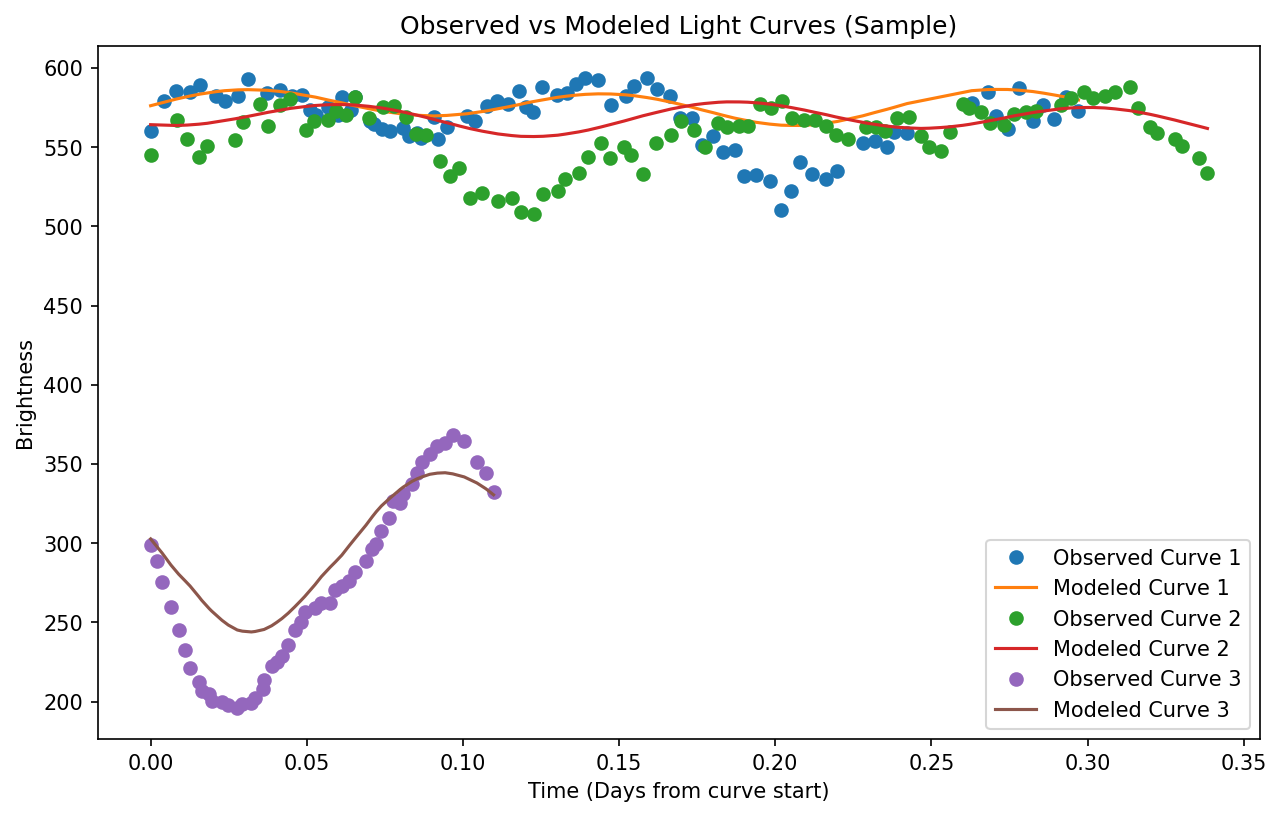
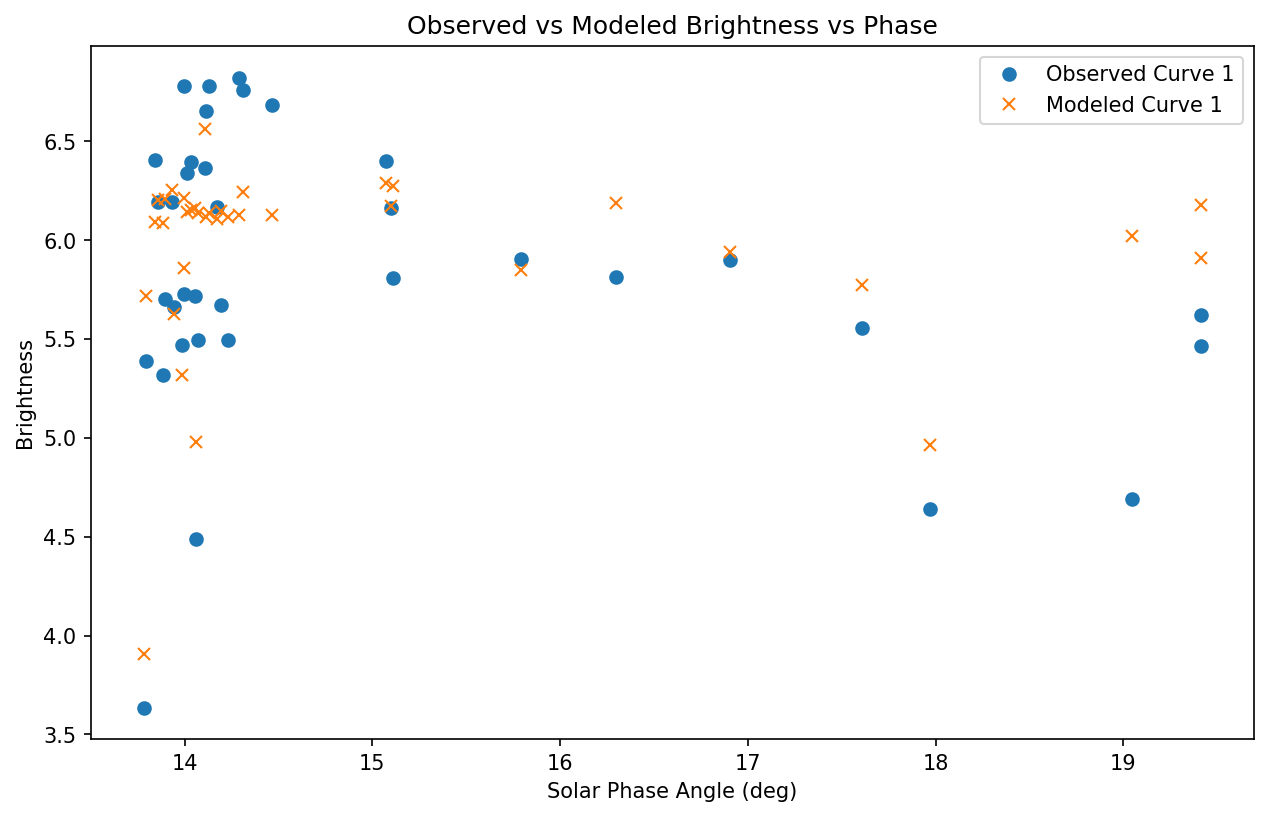
Modified README.md

diff --git a/README.md b/README.md
@@ -5,7 +5,7 @@ The `asteroid_modeling.py` module provides a Python orchestration layer to autom
 1.  **convexinv (C)**: Computes the Gaussian image of the asteroid (face areas and normals) from observed light curves.
 2.  **minkowski (Fortran)**: Reconstructs the 3D vertices and polygonal faces from the areas and normals using Minkowski's theorem.
 
-The module also provides a built-in visualization function using `matplotlib` to render the resulting 3D shape.
+The package also provides plotting helpers, interactive Plotly output, sky projection products, synthetic lightcurves, and a local Streamlit GUI for running the workflow from a browser.
 
 ## Prerequisites
 To use this module, you must have the following installed:
@@ -13,13 +13,15 @@ To use this module, you must have the following installed:
 -   `pandas` (for DataFrame lightcurve support)
 -   `matplotlib`
 -   `plotly` (for interactive 3D rendering)
+-   `requests` (for DAMIT URL downloads)
+-   `streamlit` (for the local GUI)
 -   Compiled executables for `convexinv` and `minkowski` in the `damit` folder. 
 
 - The source code for DAMIT can be downloaded from: [https://damit.cuni.cz/projects/damit/files/version_0.2.1.tar.gz](https://damit.cuni.cz/projects/damit/files/version_0.2.1.tar.gz).
 
 You can install the Python dependencies via pip:
 ```bash
-pip install numpy pandas matplotlib plotly
+pip install numpy pandas matplotlib plotly requests streamlit
 ```
 
 ### Quick Links
@@ -33,36 +35,75 @@ If you already have your data prepared and compiled the executables, here's a mi
 
 ```python
 import pymit
-import json
 
 # Instantiate the modeler
-modeler = pymit.AsteroidModeler(asteroid_name="Eros", output_dir="data")
+modeler = pymit.AsteroidModeler(asteroid_name="A7753", output_dir="data")
 
-# Load lightcurves
-modeler.load_lightcurves("test_lcs.csv")
+# Load a CSV, native DAMIT/convexinv text file, or DAMIT plaintext URL
+modeler.load_lightcurves(
+    "https://damit.cuni.cz/projects/damit/LightCurves/"
+    "exportAllForAsteroid/7753/plaintext/A7753.lc.txt"
+)
 
-# Configure inversion parameters using a JSON configuration
+# Configure inversion parameters
 inv_config = {
-    "initial_period": 5.76198
+    "initial_lambda": 269.0,
+    "initial_lambda_fixed": 1,
+    "initial_beta": 62.0,
+    "initial_beta_fixed": 1,
+    "initial_period": 33.0,
+    "initial_period_fixed": 1,
+    "phase_func_c": 0.1,
+    "phase_func_c_fixed": 0,
+    "phase_func_a": 0.5,
+    "phase_func_a_fixed": 0,
+    "phase_func_d": 0.1,
+    "phase_func_d_fixed": 0,
+    "phase_func_k": -1.05,
+    "phase_func_k_fixed": 0,
 }
 conj_config = {
-    "number_of_iterations": 150
+    "number_of_iterations": 100
 }
-modeler.load_parameters(inversion_json=json.dumps(inv_config), conjgradinv_json=json.dumps(conj_config))
+modeler.load_parameters(inversion_json=inv_config, conjgradinv_json=conj_config)
 
 # Run inversion
 vertices, faces = modeler.run_inversion()
 
 # Plot and export results
-modeler.plot_lightcurves_results(max_curves=3, show=True)
-modeler.plot_model(show=True)
+modeler.plot_lightcurves_results(save=True, show=False, max_curves=3)
+modeler.plot_model(save=True, show=False)
+modeler.plot_model_plotly(save=True, show=False)
+modeler.plot_sky_projection(save=True, show=False, jd=2461169.0)
+modeler.plot_synthetic_lightcurve(save=True, show=False, jd=2461169.0)
+modeler.export_obj()
 
 print(f"Generated an asteroid model with {len(vertices)} vertices and {len(faces)} faces.")
 ```
 
 **Modeled output examples:**
 ![Modeled Light Curves](docs/assets/lightcurves.png)
-![Asteroid 3D Shape Model](docs/assets/shape_model.png)
+![Asteroid 3D Shape Model](docs/assets/sky_projection.png)
+![Synthetic Light Curve](docs/assets/synthetic_lightcurve.png)
+
+## Local Streamlit GUI
+
+Run the browser GUI from the repository root:
+
+```bash
+PYTHONPATH=src streamlit run apps/streamlit_app.py
+```
+![Streamlit GUI](docs/assets/streamlit_gui.png)
+
+
+The GUI supports:
+-   DAMIT plaintext lightcurve URLs
+-   Uploaded CSV or native DAMIT/`convexinv` lightcurve files
+-   Convex inversion, LSL scattering, and Minkowski reconstruction controls
+-   Sky projection and synthetic lightcurve generation for a selected Julian date
+-   Interactive 3D model display and download buttons for generated outputs
+
+Sidebar values are saved to `.pymit_last_params.json` after a successful run and restored on the next GUI start.
 
 ## Error Handling
 The module raises `AsteroidModelError` if the underlying C/Fortran binaries fail or return a non-zero exit code. Ensure that your input parametrization matches the formatting expectations of the Kaasalainen & Torppa inversion codes.
